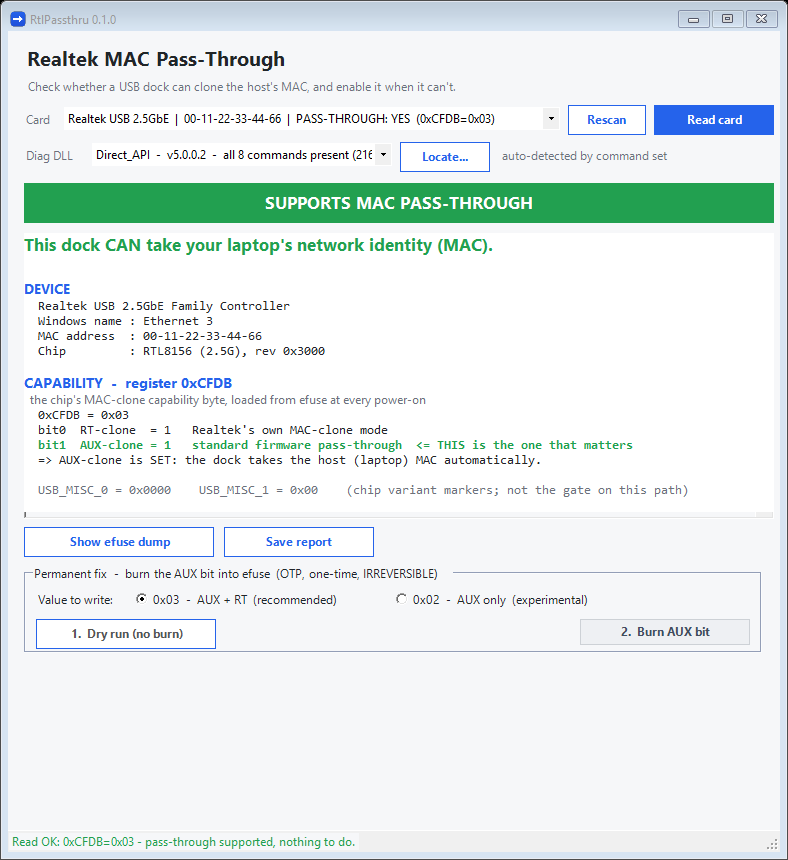
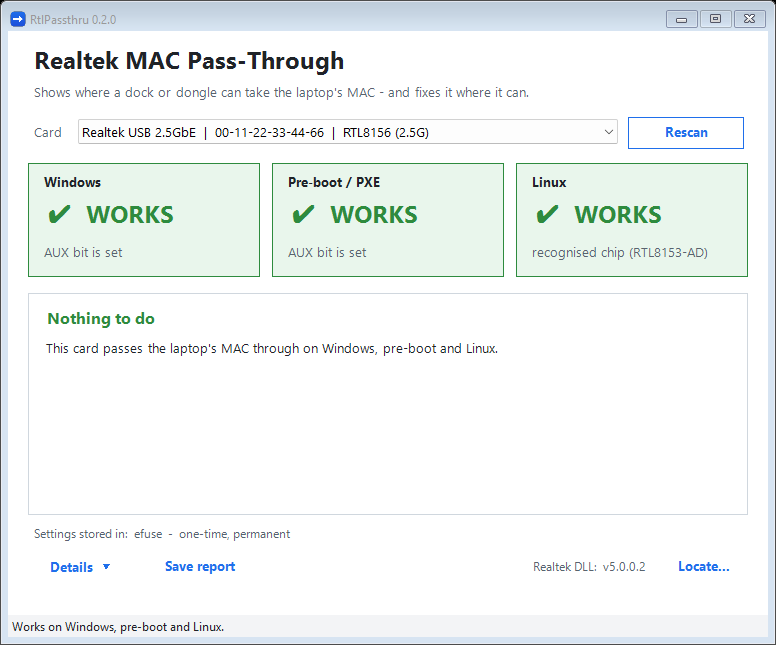
docs + screenshots for 0.2.0
README: new 'Using it' for the tiles/action-card window, Details panel, Linux-not-on-this-card state; RTL8153 efuse is read, not written (corrects the 'RTL8153 works the same way' claim); 0xCFDB described as a register filled from default + efuse records; tool list and CLI updated. Screenshots regenerated from demo data (made-up MACs). dll/README: fixed the link to Setup.

diff --git a/README.md b/README.md
@@ -49,10 +49,11 @@ the AUX switch on is the whole fix — and RtlPassthru writes **`0x03`**, both s
 dock that ships enabled: Linux on `-AD` chips needs the RT bit too, and pre-boot was verified with
 `0x03`. *(The exact driver logic is in the [deep dive](#deep-dive).)*
 
-**Why it's a "burn".** `0xCFDB` lives in the chip's **efuse** — a one-time-programmable (OTP) memory:
-each bit can be set once and never cleared. RtlPassthru doesn't edit the existing value; it **appends
-one 4-byte record (`40 CF DB 03`) into blank space** at the end of the efuse, which the chip reloads
-at every power-on. Factory data is never touched, so a failed or interrupted burn simply doesn't take
+**Why it's a "burn".** `0xCFDB` is a register the chip fills at every power-on: first with its own
+built-in default, then with any setting records found in its **efuse** — a one-time-programmable (OTP)
+memory where each bit can be set once and never cleared. RtlPassthru doesn't edit anything that is
+there; it **appends one 4-byte record (`40 CF DB 03`) into blank space** right after the existing
+records, and the chip applies it at every power-on. Factory data is never touched, so a failed or interrupted burn simply doesn't take
 and leaves the card unharmed. Because it's irreversible, the tool always offers a **dry run** first.
 
 ---
@@ -74,8 +75,10 @@ found it by reading the controller directly. Its `0xCFDB` read **`0x01`**: the R
 burned the AUX switch; it now reads **`0x03`** and passes the MAC through, including Dell's pre-boot
 pass-through. It's a **per-unit factory detail — even a premium dock can ship without it.**
 
-**Not sure about yours? Try it on a dongle first.** Any Realtek **RTL8156 (2.5 G)** or
-**RTL8153 (1 G)** USB adapter works the same way. We found that a cheap USB 2.5G dongle
+**Not sure about yours? Try it on a dongle first.** Any Realtek **RTL8156 (2.5 G)** USB adapter works
+the same way. *(RTL8153 (1 G) chips are read and diagnosed too, but their efuse uses a different
+protocol that RtlPassthru does not write yet — the one we have came with the AUX bit already on.)*
+We found that a cheap USB 2.5G dongle
 ([a few pounds on AliExpress](https://www.aliexpress.com/item/1005009390264219.html)) uses the very
 same chip, so we ran the whole read → dry-run → burn flow on it first — it enabled pass-through and
 **kept working perfectly afterwards** (the burn doesn't harm the device). It's an easy, low-cost way
@@ -113,31 +116,42 @@ Then:
 
 3. **Run `Card-Inspector.bat`.** It elevates to Administrator and opens the window.
 
-> RtlPassthru identifies the DLL by its exported command set — it shows which it found and how many
-> procedures it has, and you can point it anywhere with **Locate…**.
+> RtlPassthru finds the DLL by its exported command set and shows the version it uses at the bottom of
+> the window; if it's somewhere else, point at it with **Locate…**.
 
 ## Using it
 
-**Read the card.** Pick your adapter and press **Read card**. You get a plain verdict — green
-**SUPPORTS MAC PASS-THROUGH** or red **NOT SUPPORTED** — with the full reason, like the two
-screenshots at the top.
+**Pick your adapter.** The card is read as soon as you select it. Three tiles answer the real
+question — **does pass-through work, and where:** **Windows**, **Pre-boot / PXE** and **Linux**,
+each green **WORKS** or red **NO**, with the reason underneath (the two screenshots at the top).
+Each system checks a different marker on the card, so the tiles can differ.
 
-If it's red and you want to fix it, the **Permanent fix** box has two steps.
+Below the tiles, **one action card** offers what fits *this* card:
 
-**Step 1 — Dry run.** The burn is irreversible, so always look before you leap. Dry run reads the
-chip, locates the one free slot in the efuse, and shows the exact bytes it *would* write — **without
-touching anything.**
+- **Enable pass-through** — when the AUX bit is missing (the red screenshot at the top). Two steps:
+  - **1 · Preview** — the burn is irreversible, so always look before you leap. Preview reads the
+    chip, finds the free slot in the efuse and shows the exact record it *would* write — **without
+    touching anything.** The Burn button unlocks only after a successful preview.
 
-![Dry run](docs/img/03-dry-run.png)
+    ![Preview](docs/img/03-dry-run.png)
 
-**Step 2 — Burn.** Press **Burn AUX bit** and confirm in the dialog. Keep the adapter plugged in and
-still while it writes and verifies. Then **unplug and re-plug** it — so the chip reloads the efuse —
-and press **Rescan**. It should now read **SUPPORTED**.
+  - **2 · Burn AUX bit** — confirm in the dialog and keep the adapter plugged in while a progress
+    bar shows it writing and verifying (the window can't be closed mid-write). Then **unplug and
+    re-plug** it, so the chip reloads its efuse, and press **Rescan**. The tiles should turn green.
+- **Nothing to do** — everything already works.
+- **Linux: not on this card** — Windows and pre-boot work, but Linux only accepts recognised chip
+  variants (`-AD`, `-BND`, `-BD` or Lenovo) and this chip isn't one. The tool says so plainly
+  rather than offering a fix it can't prove.
 
-Two more buttons help along the way: **Show efuse dump** displays the decoded efuse (read-only), and
-**Save report** writes a plain-text summary.
+  ![Linux not on this card](docs/img/05-linux-not-on-this-card.png)
 
-![Decoded efuse](docs/img/04-efuse-decoded.png)
+**Details ▾** opens a panel under the window with two tabs: *Markers & registers* (every marker each
+system checks, and its value) and *Settings dump* — the chip's efuse in hex with its setting records
+decoded and summarised in plain words (and, if the card has an SPI flash, the start of it — on the
+cards we read that flash holds the driver install disk, not chip settings). **Save report** writes
+all of it to a text file.
+
+![Details: settings dump](docs/img/04-efuse-decoded.png)
 
 ---
 
@@ -206,9 +220,12 @@ Realtek library through `ctypes`:
 Card-Inspector.bat     launcher (self-elevates to admin)
 card-inspector.ps1     the window (PowerShell / WinForms)
 tools/                 Python backend:
-  diag.py                read registers (REV, USB_MISC, 0xCFDB)
-  efuse.py               efuse read / dump / dry-run / burn
+  diag.py                read registers (REV, USB_MISC, 0xCFDB) and the per-system verdict
+  settings.py            read-only settings dump: efuse (RTL8156 and RTL8153 protocols) + SPI flash start
+  efuse.py               efuse dump / dry-run / burn (RTL8156-family efuse)
   rtldiag.py             unified DLL layer (classifies + drives the Realtek library)
+  passthru.py            which marker each system checks -> the verdict (unit-tested)
+  storage.py             where the settings live (unit-tested)
   efuse_core.py          pure efuse record logic (unit-tested)
   dll_list.py            lists/classifies the DLLs by command set
 tests/                 regression tests  ->  python -m pytest
@@ -226,7 +243,8 @@ requirements), which is handy for scripting or a headless box:
 
 ```powershell
 python -I tools/diag.py  {InterfaceGuid}            # read REV, USB_MISC and 0xCFDB
-python -I tools/efuse.py {InterfaceGuid}            # dump the efuse
+python -I tools/settings.py {InterfaceGuid}         # settings dump: efuse records + plain-words summary
+python -I tools/efuse.py {InterfaceGuid}            # dump the efuse (RTL8156 family)
 python -I tools/efuse.py {InterfaceGuid} --plan     # dry run: show what a burn would write
 python -I tools/efuse.py {InterfaceGuid} --burn     # burn 0xCFDB = 0x03   (irreversible)
 python -I tools/dll_list.py                         # list / classify the Realtek DLLs found

diff --git a/dll/README.md b/dll/README.md
@@ -14,4 +14,4 @@ They live inside Realtek's free **Ethernet Diagnostic Program** — download it 
 (<https://www.realtek.com/download/List?cate_id=585>), unzip it, and take both files from its
 `EXE\64\` folder.
 
-See the main [README](../README.md#get-the-realtek-dll-one-free-download) for the full walkthrough.
+See the main [README](../README.md#setup) for the full walkthrough.
